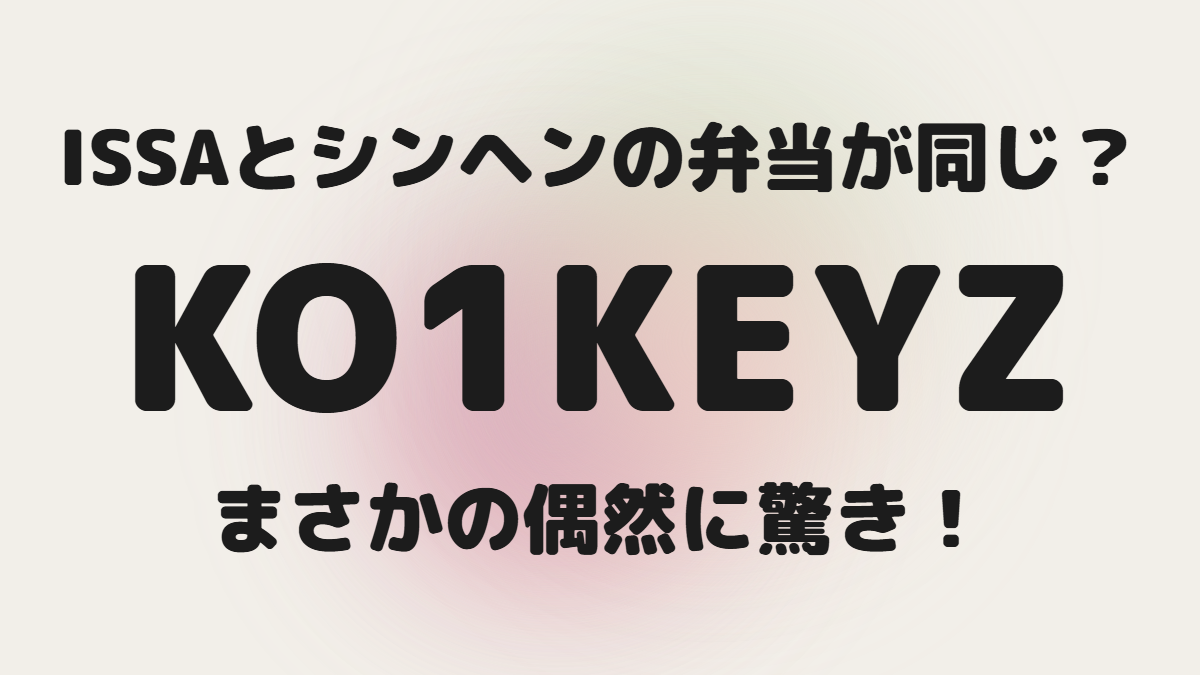
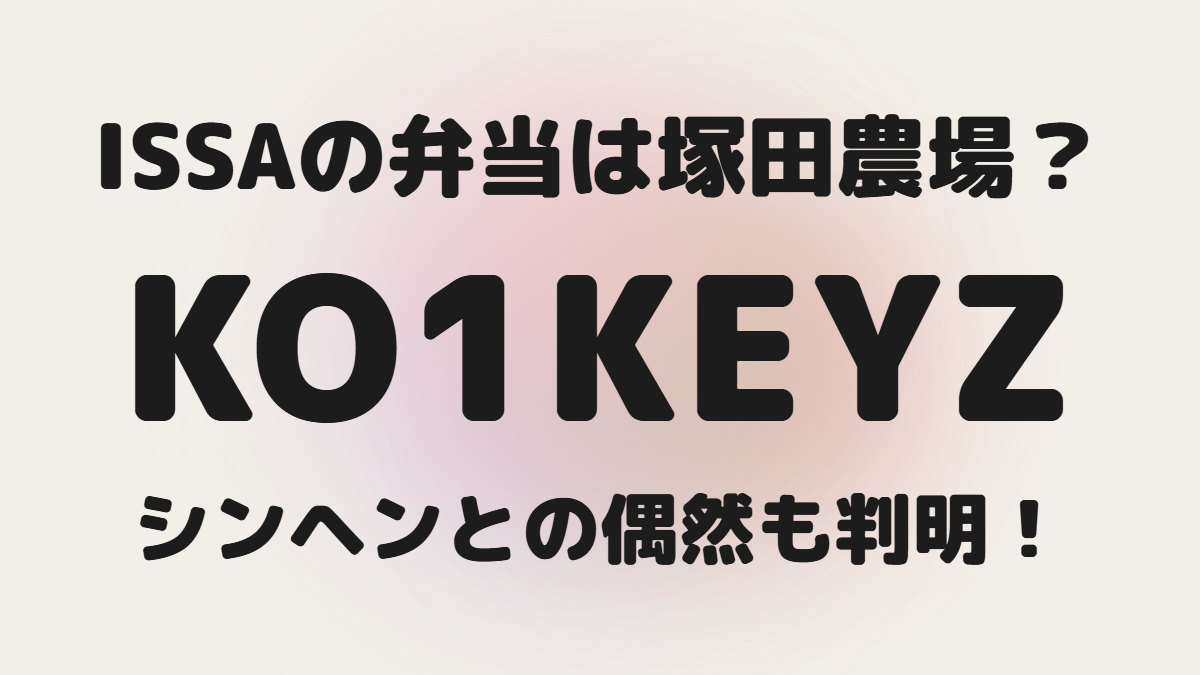
Identify ISSA's bento as Tsukadanojo's chicken nanban bento
Matched the photo against Tsukadanojo Obento Lab's official product
shots (black sesame rice, nikujaga, takana mentaiko, thick omelet,
chicken nanban, tartar sauce all line up). Updated JP/KR/EN drafts
with the product name, price, and purchase links, plus refreshed
eyecatch images.

diff --git a/articles/ko1keyz_issa_shinhaeng_bento_coincidence.html b/articles/ko1keyz_issa_shinhaeng_bento_coincidence.html
@@ -1,7 +1,7 @@
 <!-- wp:paragraph -->
 <p>KO1KEYZ(コイキーズ)のISSA(柳谷伊冴)さんが自身のSNSで配信した弁当の写真が、ファンの間でちょっとした話題になっています。<br>
-気になって追いかけてみたところ、<strong>ほぼ同じ時期にSHINHAENG(オ・シンヘン)さんも同じような弁当を食べていたとの投稿があり、Xでは「まさかの一致」に驚く声が上がっていました</strong>。<br>
-この記事では、ISSAさんが投稿した弁当の中身と、SHINHAENGさんとの偶然の一致、そしてXでのファンの反応をまとめます。</p>
+写真を手がかりに調べてみたところ、<strong>この弁当は塚田農場おべんとラボの看板商品「絶品!塚だまタルタル若鶏のチキン南蛮弁当」(税込990円)とみられ、さらにほぼ同じ時期にSHINHAENG(オ・シンヘン)さんも似た弁当を食べていたとの投稿があり、Xでは「まさかの一致」に驚く声が上がっていました</strong>。<br>
+この記事では、ISSAさんが投稿した弁当の正体と中身、価格や購入先、そしてSHINHAENGさんとの偶然の一致・Xでのファンの反応までまとめます。</p>
 <!-- /wp:paragraph -->
 
 <!-- wp:html -->
@@ -9,7 +9,7 @@
 <p style="font-weight:bold;font-size:1.05em;margin:0;padding:10px 18px;background:#8a8378;color:#fff;">この記事でわかること</p>
 <ul style="margin:0;padding:14px 18px 14px 34px;background:#f7f6f4;">
 <li>ISSAさんが投稿した弁当の写真</li>
-<li>弁当の中身の特徴</li>
+<li>弁当の商品名・価格・購入先</li>
 <li>SHINHAENGさんも同じ弁当を食べていたという話</li>
 <li>Xでのファンの反応</li>
 </ul>
@@ -36,26 +36,57 @@
 
 <!-- wp:html -->
 <figure class="wp-block-image size-large">
-<img src="{{ISSA_BENTO_IMG}}" alt="ISSA(柳谷伊冴)が投稿した黒ごまご飯とチキン南蛮風のから揚げが入った弁当" style="max-width:100%;height:auto;">
+<img src="{{ISSA_BENTO_IMG}}" alt="ISSA(柳谷伊冴)が投稿した塚田農場「塚だまタルタル若鶏のチキン南蛮弁当」の写真" style="max-width:100%;height:auto;">
 <figcaption style="text-align:center;font-size:12px;">出典:<a href="https://x.com/takusankue_/status/2102227424599802034" target="_blank" rel="noopener">https://x.com/takusankue_/status/2102227424599802034</a></figcaption>
 </figure>
 <!-- /wp:html -->
 <!-- UPLOAD: images/ko1keyz_issa_bento.jpg をメディアにアップし、STEP5で実URL(srcset付き)へ差し替える -->
 
 <!-- wp:heading -->
-<h2 class="wp-block-heading">弁当の中身をチェック</h2>
+<h2 class="wp-block-heading">弁当の正体は塚田農場の「塚だまタルタル若鶏のチキン南蛮弁当」</h2>
 <!-- /wp:heading -->
 
 <!-- wp:paragraph -->
 <p>写真を拡大して見てみると、弁当の中身はかなりボリュームのある構成になっていました。<br>
-ご飯は<strong>黒ごまを散らした白ご飯</strong>で容器の半分ほどを占め、その下には<strong>甘酢だれがかかったから揚げが4個</strong>(いわゆるチキン南蛮スタイル)がぎっしり詰まっています。<br>
-おかずのコーナーには、里芋やごぼうらしき具材と枝豆を甘辛く煮たもの、青唐辛子のような緑色の漬物、そしてかぼちゃを思わせるオレンジ色の一切れが並び、タルタルソースらしきクリーム状のソースが別カップで添えられていました。<br>
-彩りも品数も豊富で、育ち盛りのISSAさんらしい食べ応えのある一食という印象です。</p>
+ご飯は<strong>黒ごまを散らした白ご飯</strong>で容器の半分ほどを占め、その下には<strong>甘酢だれがかかった若鶏のチキン南蛮</strong>がぎっしり詰まっています。<br>
+おかずのコーナーには、じゃがいも・にんじん・牛肉を甘辛く煮た肉じゃがに枝豆を添えたもの、高菜明太風の緑色の漬物、手巻きの厚焼き玉子、そして具だくさんの卵タルタルソースが別添えのカップで入っていました。<br>
+この構成・容器の形・タルタルソースの盛り付けを、塚田農場おべんとラボが公式で販売している商品写真と照らし合わせたところ、<strong><span class="swl-marker mark_blue" style="font-size:1.15em;">黒ごまご飯・肉じゃが・高菜明太・厚焼き玉子・チキン南蛮・タルタルソースという5品の配置がすべて一致</span></strong>しました。<br>
+この弁当は、塚田農場おべんとラボの看板商品「絶品!塚だまタルタル若鶏のチキン南蛮弁当」とみて間違いなさそうです。</p>
 <!-- /wp:paragraph -->
 
+<!-- wp:html -->
+<div style="border:1px solid #ccc;border-radius:4px;padding:16px 18px;margin:0 0 16px 0;">
+<p style="font-weight:bold;font-size:1.05em;margin:0 0 10px 0;">「絶品!塚だまタルタル若鶏のチキン南蛮弁当」基本情報</p>
+<table style="border-collapse:collapse;width:100%;">
+<tr><td style="background:#f0f0f0;border:1px solid #ccc;padding:8px 12px;width:35%;">販売元</td><td style="border:1px solid #ccc;padding:8px 12px;">塚田農場おべんとラボ(塚田農場 OBENTO&amp;DELI)</td></tr>
+<tr><td style="background:#f0f0f0;border:1px solid #ccc;padding:8px 12px;">価格</td><td style="border:1px solid #ccc;padding:8px 12px;">990円(税込・店舗により異なる場合あり)</td></tr>
+<tr><td style="background:#f0f0f0;border:1px solid #ccc;padding:8px 12px;">内容</td><td style="border:1px solid #ccc;padding:8px 12px;">若鶏のチキン南蛮・塚だまタルタルソース・肉じゃが・手巻きの厚焼き玉子・高菜明太・ご飯</td></tr>
+<tr><td style="background:#f0f0f0;border:1px solid #ccc;padding:8px 12px;">受賞歴</td><td style="border:1px solid #ccc;padding:8px 12px;">日本ロケ弁大賞 金賞(2024〜2026年 第1〜3回連続受賞)・TV業界賞・からあげグランプリ金賞など</td></tr>
+</table>
+</div>
+<!-- /wp:html -->
+
 <!-- wp:paragraph -->
-<p>この弁当がどこで購入されたものなのか、商品名やお店については本人からの説明がなく、現時点では特定できていません。<br>
-後述するように、Xの反応の中には「新幹線に乗るときに買う」というコメントも見られましたが、これはあくまでファンの個人的な感想であり、実際の購入場所を裏付けるものではない点には留意が必要です。</p>
+<p>特にタルタルソースは、塚田農場オリジナルのプレミアム卵「塚だま」をふんだんに使った特製仕立てで、これが商品名にもなっている一番のこだわりポイントです。<br>
+「日本ロケ弁大賞」で2024年・2025年・2026年と3年連続で金賞を受賞しているだけあって、撮影現場やロケ弁として芸能関係者にもなじみ深い一品なのだそうです。<br>
+ISSAさんがこの弁当を口にしていたのも、こうした現場での差し入れ・ロケ弁として選ばれた可能性が考えられそうです。</p>
+<!-- /wp:paragraph -->
+
+<!-- wp:html -->
+<div style="border:1px solid #ddd9d3;border-radius:4px;margin:0 0 16px 0;overflow:hidden;">
+<p style="font-weight:bold;font-size:1.05em;margin:0;padding:10px 18px;background:#8a8378;color:#fff;">購入先</p>
+<ul style="margin:0;padding:14px 18px 14px 34px;background:#f7f6f4;">
+<li><a href="https://obento.tsukadanojo.jp/shop/menu/item01.html" target="_blank" rel="noopener">塚田農場 OBENTO&amp;DELI 公式サイト(商品ページ)</a> — 990円(税込)</li>
+<li><a href="https://www.gransta.jp/mall/gransta_tokyo/tsukadanojo/" target="_blank" rel="noopener">塚田農場OBENTO&amp;DELI 京葉ストリート店(東京駅グランスタ)</a> — 人気No.1の看板商品として店頭販売</li>
+<li><a href="https://obento.tsukadanojo.jp/shop/store/" target="_blank" rel="noopener">販売店舗一覧(公式)</a> — エキナカ・百貨店の店舗はこちらで確認可能</li>
+<li><a href="https://www.tsukada-plus.jp/shopinfo/" target="_blank" rel="noopener">塚田農場おべんとラボ(宅配弁当)</a> — 東京23区を中心に配達対応(まとまった数量から)</li>
+</ul>
+</div>
+<!-- /wp:html -->
+
+<!-- wp:paragraph -->
+<p>東京駅グランスタの店舗でも看板商品として販売されているとあって、Xの反応にあった「新幹線に乗るときに買う」というコメントも、この弁当なら十分にうなずける話です。<br>
+新幹線改札の近くで気軽に買えるお弁当というのも、人気の理由のひとつなのかもしれません。</p>
 <!-- /wp:paragraph -->
 
 <!-- wp:heading -->
@@ -117,7 +148,7 @@
 <!-- wp:html -->
 <div style="border:1px solid #ddd9d3;border-radius:4px;padding:14px 18px;margin:0 0 16px 0;">
 <p style="margin:0 0 6px 0;"><span style="display:inline-block;min-width:1.1em;padding:0 3px;border:1px solid #8a8378;border-radius:3px;color:#8a8378;font-weight:bold;text-align:center;margin-right:6px;font-size:0.85em;">&#10003;</span>ISSAさんが「ご飯!チキン南蛮おいしっそ」の一言とともに、弁当の写真を配信</p>
-<p style="margin:0 0 6px 0;"><span style="display:inline-block;min-width:1.1em;padding:0 3px;border:1px solid #8a8378;border-radius:3px;color:#8a8378;font-weight:bold;text-align:center;margin-right:6px;font-size:0.85em;">&#10003;</span>弁当の中身は黒ごまご飯・チキン南蛮風のから揚げ4個・タルタルソース・煮物・漬物など。商品名や購入場所は不明</p>
+<p style="margin:0 0 6px 0;"><span style="display:inline-block;min-width:1.1em;padding:0 3px;border:1px solid #8a8378;border-radius:3px;color:#8a8378;font-weight:bold;text-align:center;margin-right:6px;font-size:0.85em;">&#10003;</span>弁当の正体は塚田農場おべんとラボの「絶品!塚だまタルタル若鶏のチキン南蛮弁当」(990円)とみられる</p>
 <p style="margin:0 0 6px 0;"><span style="display:inline-block;min-width:1.1em;padding:0 3px;border:1px solid #8a8378;border-radius:3px;color:#8a8378;font-weight:bold;text-align:center;margin-right:6px;font-size:0.85em;">&#10003;</span>ほぼ同じ時期にSHINHAENGさんも「ちゃんとお弁当を食べた」と投稿し、Xでは「まさかの一致」と話題に</p>
 <p style="margin:0;"><span style="display:inline-block;min-width:1.1em;padding:0 3px;border:1px solid #8a8378;border-radius:3px;color:#8a8378;font-weight:bold;text-align:center;margin-right:6px;font-size:0.85em;">&#10003;</span>SHINHAENG側の投稿に写真はなく、完全に同一の弁当だったかまでは確認できていない</p>
 </div>

diff --git a/articles/ko1keyz_issa_shinhaeng_bento_coincidence_kr.html b/articles/ko1keyz_issa_shinhaeng_bento_coincidence_kr.html
@@ -1,7 +1,7 @@
 <!-- wp:paragraph -->
 <p>KO1KEYZ(코이키즈)의 ISSA(야나기야 잇사)가 자신의 SNS로 전한 도시락 사진이 팬들 사이에서 작은 화제가 되고 있습니다.<br>
-궁금해서 살펴보니, <strong>거의 같은 시기에 SHINHAENG(오신행)도 비슷한 도시락을 먹었다는 게시글이 있어, X에서는 "설마 하는 우연"이라며 놀라는 목소리가 나왔습니다</strong>.<br>
-이 글에서는 ISSA가 올린 도시락의 내용물과 SHINHAENG과의 우연한 일치, 그리고 X에서의 팬 반응을 정리했습니다.</p>
+사진을 단서로 살펴본 결과, <strong>이 도시락은 츠카다노조 오벤토랩의 대표 메뉴 "절품! 츠카다마 타르타르 영계 치킨난반 도시락"(세금 포함 990엔)으로 보이며, 거의 같은 시기에 SHINHAENG(오신행)도 비슷한 도시락을 먹었다는 게시글이 있어 X에서는 "설마 하는 우연"이라며 놀라는 목소리가 나왔습니다</strong>.<br>
+이 글에서는 ISSA가 올린 도시락의 정체와 내용물, 가격과 구입처, 그리고 SHINHAENG과의 우연한 일치와 X에서의 팬 반응까지 정리했습니다.</p>
 <!-- /wp:paragraph -->
 
 <!-- wp:html -->
@@ -9,7 +9,7 @@
 <p style="font-weight:bold;font-size:1.05em;margin:0;padding:10px 18px;background:#8a8378;color:#fff;">이 글에서 알 수 있는 것</p>
 <ul style="margin:0;padding:14px 18px 14px 34px;background:#f7f6f4;">
 <li>ISSA가 올린 도시락 사진</li>
-<li>도시락 내용물의 특징</li>
+<li>도시락의 상품명・가격・구입처</li>
 <li>SHINHAENG도 같은 도시락을 먹었다는 이야기</li>
 <li>X에서의 팬 반응</li>
 </ul>
@@ -36,26 +36,57 @@
 
 <!-- wp:html -->
 <figure class="wp-block-image size-large">
-<img src="{{ISSA_BENTO_IMG}}" alt="ISSA(야나기야 잇사)가 올린 검은깨 밥과 치킨난반풍 튀김이 담긴 도시락" style="max-width:100%;height:auto;">
+<img src="{{ISSA_BENTO_IMG}}" alt="ISSA(야나기야 잇사)가 올린 츠카다노조 '츠카다마 타르타르 영계 치킨난반 도시락' 사진" style="max-width:100%;height:auto;">
 <figcaption style="text-align:center;font-size:12px;">출처:<a href="https://x.com/takusankue_/status/2102227424599802034" target="_blank" rel="noopener">https://x.com/takusankue_/status/2102227424599802034</a></figcaption>
 </figure>
 <!-- /wp:html -->
 <!-- UPLOAD: images/ko1keyz_issa_bento.jpg 를 미디어에 업로드하고 STEP5에서 실제 URL로 교체 -->
 
 <!-- wp:heading -->
-<h2 class="wp-block-heading">도시락 내용물 체크</h2>
+<h2 class="wp-block-heading">도시락의 정체는 츠카다노조 "츠카다마 타르타르 영계 치킨난반 도시락"</h2>
 <!-- /wp:heading -->
 
 <!-- wp:paragraph -->
 <p>사진을 확대해서 살펴보면, 도시락 내용물은 상당히 볼륨감 있는 구성이었습니다.<br>
-밥은 <strong>검은깨를 뿌린 흰쌀밥</strong>으로 용기의 절반가량을 차지했고, 그 아래로는 <strong>달콤짭짤한 소스를 두른 튀김 4개</strong>(이른바 치킨난반 스타일)가 가득 담겨 있었습니다.<br>
-반찬 칸에는 토란이나 우엉으로 보이는 재료와 풋콩을 달콤짭짤하게 조린 것, 초록색 절임, 그리고 단호박을 연상시키는 주황색 조각이 놓여 있었고, 타르타르소스로 보이는 크림 소스가 별도 컵에 담겨 있었습니다.<br>
-색감도 가짓수도 풍부해, 한창 성장기인 ISSA다운 든든한 한 끼라는 인상이었습니다.</p>
+밥은 <strong>검은깨를 뿌린 흰쌀밥</strong>으로 용기의 절반가량을 차지했고, 그 아래로는 <strong>달콤짭짤한 소스를 두른 영계 치킨난반</strong>이 가득 담겨 있었습니다.<br>
+반찬 칸에는 감자・당근・소고기를 달콤짭짤하게 조린 니쿠자가에 풋콩을 곁들인 것, 다카나멘타이풍의 초록색 절임, 손으로 말아 만든 두꺼운 계란말이, 그리고 계란이 듬뿍 들어간 타르타르소스가 별도 컵에 담겨 있었습니다.<br>
+이 구성・용기 모양・타르타르소스 담음새를 츠카다노조 오벤토랩이 공식으로 판매 중인 상품 사진과 대조해 본 결과, <strong><span class="swl-marker mark_blue" style="font-size:1.15em;">검은깨 밥・니쿠자가・다카나멘타이・두꺼운 계란말이・치킨난반・타르타르소스라는 5가지 구성이 모두 일치</span></strong>했습니다.<br>
+이 도시락은 츠카다노조 오벤토랩의 대표 메뉴 "절품! 츠카다마 타르타르 영계 치킨난반 도시락"으로 봐도 틀림없어 보입니다.</p>
 <!-- /wp:paragraph -->
 
+<!-- wp:html -->
+<div style="border:1px solid #ccc;border-radius:4px;padding:16px 18px;margin:0 0 16px 0;">
+<p style="font-weight:bold;font-size:1.05em;margin:0 0 10px 0;">"절품! 츠카다마 타르타르 영계 치킨난반 도시락" 기본 정보</p>
+<table style="border-collapse:collapse;width:100%;">
+<tr><td style="background:#f0f0f0;border:1px solid #ccc;padding:8px 12px;width:35%;">판매처</td><td style="border:1px solid #ccc;padding:8px 12px;">츠카다노조 오벤토랩(츠카다노조 OBENTO&amp;DELI)</td></tr>
+<tr><td style="background:#f0f0f0;border:1px solid #ccc;padding:8px 12px;">가격</td><td style="border:1px solid #ccc;padding:8px 12px;">990엔(세금 포함, 점포에 따라 다를 수 있음)</td></tr>
+<tr><td style="background:#f0f0f0;border:1px solid #ccc;padding:8px 12px;">구성</td><td style="border:1px solid #ccc;padding:8px 12px;">영계 치킨난반・츠카다마 타르타르소스・니쿠자가・손말이 계란말이・다카나멘타이・밥</td></tr>
+<tr><td style="background:#f0f0f0;border:1px solid #ccc;padding:8px 12px;">수상 이력</td><td style="border:1px solid #ccc;padding:8px 12px;">일본 로케벤(촬영 현장용 도시락) 대상 금상(2024~2026년 제1~3회 연속 수상)・TV업계상・가라아게 그랑프리 금상 등</td></tr>
+</table>
+</div>
+<!-- /wp:html -->
+
 <!-- wp:paragraph -->
-<p>이 도시락을 어디서 구입했는지, 상품명이나 판매처는 본인의 설명이 없어 현재로서는 특정할 수 없습니다.<br>
-뒤에서 소개하듯 X 반응 중에는 "신칸센 탈 때 사 먹는다"는 코멘트도 있었지만, 이는 어디까지나 팬 개인의 감상일 뿐 실제 구입처를 뒷받침하는 것은 아니라는 점에 유의가 필요합니다.</p>
+<p>특히 타르타르소스는 츠카다노조 오리지널 프리미엄 달걀 "츠카다마"를 듬뿍 사용한 특제 소스로, 이것이 상품명에도 들어간 가장 큰 포인트입니다.<br>
+"일본 로케벤 대상"에서 2024년・2025년・2026년 3년 연속 금상을 수상했을 만큼, 촬영 현장이나 로케 도시락으로 연예 관계자에게도 친숙한 메뉴라고 합니다.<br>
+ISSA가 이 도시락을 먹고 있었던 것도, 이런 현장에서의 차입・로케 도시락으로 선택되었을 가능성이 있어 보입니다.</p>
+<!-- /wp:paragraph -->
+
+<!-- wp:html -->
+<div style="border:1px solid #ddd9d3;border-radius:4px;margin:0 0 16px 0;overflow:hidden;">
+<p style="font-weight:bold;font-size:1.05em;margin:0;padding:10px 18px;background:#8a8378;color:#fff;">구입처</p>
+<ul style="margin:0;padding:14px 18px 14px 34px;background:#f7f6f4;">
+<li><a href="https://obento.tsukadanojo.jp/shop/menu/item01.html" target="_blank" rel="noopener">츠카다노조 OBENTO&amp;DELI 공식 사이트(상품 페이지)</a> — 990엔(세금 포함)</li>
+<li><a href="https://www.gransta.jp/mall/gransta_tokyo/tsukadanojo/" target="_blank" rel="noopener">츠카다노조OBENTO&amp;DELI 케이요 스트리트점(도쿄역 그란스타)</a> — 인기 No.1 대표 메뉴로 매장 판매 중</li>
+<li><a href="https://obento.tsukadanojo.jp/shop/store/" target="_blank" rel="noopener">판매 매장 목록(공식)</a> — 역 구내・백화점 매장은 이곳에서 확인 가능</li>
+<li><a href="https://www.tsukada-plus.jp/shopinfo/" target="_blank" rel="noopener">츠카다노조 오벤토랩(배달 도시락)</a> — 도쿄 23구를 중심으로 배달 대응(일정 수량 이상부터)</li>
+</ul>
+</div>
+<!-- /wp:html -->
+
+<!-- wp:paragraph -->
+<p>도쿄역 그란스타 매장에서도 대표 메뉴로 판매되고 있는 만큼, X 반응에 있었던 "신칸센 탈 때 사 먹는다"는 코멘트도 이 도시락이라면 충분히 납득이 갑니다.<br>
+신칸센 개찰구 근처에서 부담 없이 살 수 있는 도시락이라는 점도 인기의 이유 중 하나일지도 모릅니다.</p>
 <!-- /wp:paragraph -->
 
 <!-- wp:heading -->
@@ -115,7 +146,7 @@
 <!-- wp:html -->
 <div style="border:1px solid #ddd9d3;border-radius:4px;padding:14px 18px;margin:0 0 16px 0;">
 <p style="margin:0 0 6px 0;"><span style="display:inline-block;min-width:1.1em;padding:0 3px;border:1px solid #8a8378;border-radius:3px;color:#8a8378;font-weight:bold;text-align:center;margin-right:6px;font-size:0.85em;">&#10003;</span>ISSA가 "밥! 치킨난반 맛있어 보인다"는 한마디와 함께 도시락 사진을 전함</p>
-<p style="margin:0 0 6px 0;"><span style="display:inline-block;min-width:1.1em;padding:0 3px;border:1px solid #8a8378;border-radius:3px;color:#8a8378;font-weight:bold;text-align:center;margin-right:6px;font-size:0.85em;">&#10003;</span>도시락 내용물은 검은깨 밥・치킨난반풍 튀김 4개・타르타르소스・조림・절임 등. 상품명과 구입처는 불명</p>
+<p style="margin:0 0 6px 0;"><span style="display:inline-block;min-width:1.1em;padding:0 3px;border:1px solid #8a8378;border-radius:3px;color:#8a8378;font-weight:bold;text-align:center;margin-right:6px;font-size:0.85em;">&#10003;</span>도시락의 정체는 츠카다노조 오벤토랩의 "절품! 츠카다마 타르타르 영계 치킨난반 도시락"(990엔)으로 보임</p>
 <p style="margin:0 0 6px 0;"><span style="display:inline-block;min-width:1.1em;padding:0 3px;border:1px solid #8a8378;border-radius:3px;color:#8a8378;font-weight:bold;text-align:center;margin-right:6px;font-size:0.85em;">&#10003;</span>거의 같은 시기에 SHINHAENG도 "제대로 도시락을 먹었다"고 게시해 X에서는 "설마 하는 우연"으로 화제</p>
 <p style="margin:0;"><span style="display:inline-block;min-width:1.1em;padding:0 3px;border:1px solid #8a8378;border-radius:3px;color:#8a8378;font-weight:bold;text-align:center;margin-right:6px;font-size:0.85em;">&#10003;</span>SHINHAENG 쪽 게시물에는 사진이 없어 완전히 동일한 도시락이었는지까지는 확인되지 않음</p>
 </div>

diff --git a/articles/ko1keyz_issa_shinhaeng_bento_coincidence_en.html b/articles/ko1keyz_issa_shinhaeng_bento_coincidence_en.html
@@ -1,7 +1,7 @@
 <!-- wp:paragraph -->
 <p>ISSA (Yanagiya Issa) of KO1KEYZ shared a photo of his lunch box on his own SNS, and it quickly became a small talking point among fans.<br>
-Curious, we looked into it further and found that <strong>SHINHAENG (Oh Sin-hyeon) posted around the same time that he, too, had properly eaten a bento, leading fans on X to react with surprise at the coincidence</strong>.<br>
-This article looks at what was inside ISSA's bento, the coincidental overlap with SHINHAENG, and how fans reacted on X.</p>
+Using the photo as a clue, we tracked it down: <strong>the bento appears to be Tsukada Farm's (Tsukadanojo) signature item, the "Tsukadama Tartar Young Chicken Nanban Bento" (990 yen tax included), and around the same time SHINHAENG (Oh Sin-hyeon) posted that he, too, had eaten a similar bento, leading fans on X to react with surprise at the coincidence</strong>.<br>
+This article looks at what the bento actually is, its price and where to buy it, the coincidental overlap with SHINHAENG, and how fans reacted on X.</p>
 <!-- /wp:paragraph -->
 
 <!-- wp:html -->
@@ -9,7 +9,7 @@ This article looks at what was inside ISSA's bento, the coincidental overlap wit
 <p style="font-weight:bold;font-size:1.05em;margin:0;padding:10px 18px;background:#8a8378;color:#fff;">What this article covers</p>
 <ul style="margin:0;padding:14px 18px 14px 34px;background:#f7f6f4;">
 <li>The bento photo ISSA shared</li>
-<li>What was inside the bento</li>
+<li>The bento's product name, price, and where to buy it</li>
 <li>The claim that SHINHAENG ate a similar bento</li>
 <li>How fans reacted on X</li>
 </ul>
@@ -36,26 +36,57 @@ An X user who saw the post shared a screenshot of it on X, so many fans likely c
 
 <!-- wp:html -->
 <figure class="wp-block-image size-large">
-<img src="{{ISSA_BENTO_IMG}}" alt="A bento posted by ISSA, with black sesame rice and chicken nanban-style fried chicken" style="max-width:100%;height:auto;">
+<img src="{{ISSA_BENTO_IMG}}" alt="A bento posted by ISSA, identified as Tsukadanojo's Tsukadama Tartar Young Chicken Nanban Bento" style="max-width:100%;height:auto;">
 <figcaption style="text-align:center;font-size:12px;">Source:<a href="https://x.com/takusankue_/status/2102227424599802034" target="_blank" rel="noopener">https://x.com/takusankue_/status/2102227424599802034</a></figcaption>
 </figure>
 <!-- /wp:html -->
 <!-- UPLOAD: images/ko1keyz_issa_bento.jpg to be uploaded to media and swapped for the real URL in STEP5 -->
 
 <!-- wp:heading -->
-<h2 class="wp-block-heading">What was inside the bento?</h2>
+<h2 class="wp-block-heading">The bento's identity: Tsukadanojo's "Tsukadama Tartar Young Chicken Nanban Bento"</h2>
 <!-- /wp:heading -->
 
 <!-- wp:paragraph -->
 <p>Zooming in on the photo, the bento turned out to be quite a hearty spread.<br>
-The rice was <strong>white rice topped with black sesame seeds</strong>, taking up about half the container, with <strong>four pieces of fried chicken coated in a sweet-tangy glaze</strong> (in a chicken nanban style) packed in below.<br>
-The side dishes included what looked like taro or burdock root simmered with edamame in a sweet-savory sauce, a green pickled vegetable, and an orange slice resembling pumpkin, along with a separate cup of what appeared to be tartar sauce.<br>
-With its rich colors and variety, it gave the impression of a hearty, satisfying meal fitting for ISSA, who is still in his growth years.</p>
+The rice was <strong>white rice topped with black sesame seeds</strong>, taking up about half the container, with <strong>sweet-tangy glazed young chicken nanban</strong> packed in below.<br>
+The side dishes included nikujaga (potato, carrot, and beef simmered in a sweet-savory sauce) with edamame, a green pickled vegetable resembling takana mentaiko, a hand-rolled thick omelet, and a separate cup of egg-rich tartar sauce.<br>
+Comparing this layout, the container shape, and the way the tartar sauce was presented against official product photos from Tsukada Farm's (Tsukadanojo) bento shop, <strong><span class="swl-marker mark_blue" style="font-size:1.15em;">all five elements — the black sesame rice, nikujaga, takana mentaiko, thick omelet, chicken nanban, and tartar sauce — matched exactly</span></strong>.<br>
+This bento appears, without much doubt, to be Tsukadanojo's signature item, the "Tsukadama Tartar Young Chicken Nanban Bento."</p>
 <!-- /wp:paragraph -->
 
+<!-- wp:html -->
+<div style="border:1px solid #ccc;border-radius:4px;padding:16px 18px;margin:0 0 16px 0;">
+<p style="font-weight:bold;font-size:1.05em;margin:0 0 10px 0;">"Tsukadama Tartar Young Chicken Nanban Bento" basics</p>
+<table style="border-collapse:collapse;width:100%;">
+<tr><td style="background:#f0f0f0;border:1px solid #ccc;padding:8px 12px;width:35%;">Sold by</td><td style="border:1px solid #ccc;padding:8px 12px;">Tsukadanojo Obento Lab (Tsukadanojo OBENTO&amp;DELI)</td></tr>
+<tr><td style="background:#f0f0f0;border:1px solid #ccc;padding:8px 12px;">Price</td><td style="border:1px solid #ccc;padding:8px 12px;">990 yen (tax included; may vary by location)</td></tr>
+<tr><td style="background:#f0f0f0;border:1px solid #ccc;padding:8px 12px;">Contents</td><td style="border:1px solid #ccc;padding:8px 12px;">Chicken nanban, Tsukadama tartar sauce, nikujaga, hand-rolled thick omelet, takana mentaiko, rice</td></tr>
+<tr><td style="background:#f0f0f0;border:1px solid #ccc;padding:8px 12px;">Awards</td><td style="border:1px solid #ccc;padding:8px 12px;">Gold Prize at the Japan Location Bento Awards (three consecutive years, 2024-2026), a TV Industry Award, and a Gold Prize at the Karaage Grand Prix, among others</td></tr>
+</table>
+</div>
+<!-- /wp:html -->
+
 <!-- wp:paragraph -->
-<p>Neither the product name nor where the bento was purchased has been explained by ISSA himself, so this remains unconfirmed at this time.<br>
-As introduced below, one reaction on X mentioned buying "this" when riding the shinkansen, but that is simply one fan's personal impression and does not confirm where the bento actually came from.</p>
+<p>The tartar sauce in particular is a signature touch made generously with Tsukadanojo's own premium "Tsukadama" eggs, which is where the product's name comes from.<br>
+Having won gold at the Japan Location Bento Awards three years running (2024, 2025, and 2026), it's reportedly a bento well known among entertainment industry staff as catering for film and TV shoots.<br>
+That raises the possibility that ISSA, too, was eating this bento as catering or a treat brought to a work location.</p>
+<!-- /wp:paragraph -->
+
+<!-- wp:html -->
+<div style="border:1px solid #ddd9d3;border-radius:4px;margin:0 0 16px 0;overflow:hidden;">
+<p style="font-weight:bold;font-size:1.05em;margin:0;padding:10px 18px;background:#8a8378;color:#fff;">Where to buy it</p>
+<ul style="margin:0;padding:14px 18px 14px 34px;background:#f7f6f4;">
+<li><a href="https://obento.tsukadanojo.jp/shop/menu/item01.html" target="_blank" rel="noopener">Tsukadanojo OBENTO&amp;DELI official site (product page)</a> — 990 yen (tax included)</li>
+<li><a href="https://www.gransta.jp/mall/gransta_tokyo/tsukadanojo/" target="_blank" rel="noopener">Tsukadanojo OBENTO&amp;DELI Keiyo Street store (Tokyo Station, GranSta)</a> — sold in-store as the shop's No. 1 signature item</li>
+<li><a href="https://obento.tsukadanojo.jp/shop/store/" target="_blank" rel="noopener">Official store list</a> — check here for in-station and department store locations</li>
+<li><a href="https://www.tsukada-plus.jp/shopinfo/" target="_blank" rel="noopener">Tsukadanojo Obento Lab (delivery)</a> — delivers mainly within Tokyo's 23 wards for bulk orders</li>
+</ul>
+</div>
+<!-- /wp:html -->
+
+<!-- wp:paragraph -->
+<p>Since it's sold as a signature item at the GranSta store inside Tokyo Station, the X reaction mentioning buying "this" when riding the shinkansen makes a lot of sense for this particular bento.<br>
+Being easy to pick up right near the shinkansen ticket gates may well be part of its appeal.</p>
 <!-- /wp:paragraph -->
 
 <!-- wp:heading -->
@@ -115,7 +146,7 @@ That two members with such different backgrounds happened to be eating similar l
 <!-- wp:html -->
 <div style="border:1px solid #ddd9d3;border-radius:4px;padding:14px 18px;margin:0 0 16px 0;">
 <p style="margin:0 0 6px 0;"><span style="display:inline-block;min-width:1.1em;padding:0 3px;border:1px solid #8a8378;border-radius:3px;color:#8a8378;font-weight:bold;text-align:center;margin-right:6px;font-size:0.85em;">&#10003;</span>ISSA shared a bento photo with the caption "Rice! This chicken nanban looks tasty"</p>
-<p style="margin:0 0 6px 0;"><span style="display:inline-block;min-width:1.1em;padding:0 3px;border:1px solid #8a8378;border-radius:3px;color:#8a8378;font-weight:bold;text-align:center;margin-right:6px;font-size:0.85em;">&#10003;</span>The bento contained black sesame rice, four pieces of chicken nanban-style fried chicken, tartar sauce, simmered vegetables, and pickles; the product name and where it was bought remain unconfirmed</p>
+<p style="margin:0 0 6px 0;"><span style="display:inline-block;min-width:1.1em;padding:0 3px;border:1px solid #8a8378;border-radius:3px;color:#8a8378;font-weight:bold;text-align:center;margin-right:6px;font-size:0.85em;">&#10003;</span>The bento appears to be Tsukadanojo's "Tsukadama Tartar Young Chicken Nanban Bento" (990 yen)</p>
 <p style="margin:0 0 6px 0;"><span style="display:inline-block;min-width:1.1em;padding:0 3px;border:1px solid #8a8378;border-radius:3px;color:#8a8378;font-weight:bold;text-align:center;margin-right:6px;font-size:0.85em;">&#10003;</span>Around the same time, SHINHAENG also posted that he had "properly eaten a bento," sparking talk on X about the coincidence</p>
 <p style="margin:0;"><span style="display:inline-block;min-width:1.1em;padding:0 3px;border:1px solid #8a8378;border-radius:3px;color:#8a8378;font-weight:bold;text-align:center;margin-right:6px;font-size:0.85em;">&#10003;</span>SHINHAENG's post had no photo attached, so it can't be confirmed whether the bentos were completely identical</p>
 </div>

diff --git a/images/ko1keyz_issa_shinhaeng_bento_eyecatch.html b/images/ko1keyz_issa_shinhaeng_bento_eyecatch.html
@@ -30,10 +30,10 @@ body { width: 1200px; height: 675px; overflow: hidden; }
 </head>
 <body>
 <div class="canvas">
-  <div class="smoke" style="width:424px;height:424px;left:337px;top:206px;background:radial-gradient(circle,rgba(240,150,160,0.95) 0%,transparent 66%);"></div><div class="smoke" style="width:465px;height:465px;left:335px;top:163px;background:radial-gradient(circle,rgba(246,178,130,0.85) 0%,transparent 66%);"></div><div class="smoke" style="width:533px;height:533px;left:291px;top:128px;background:radial-gradient(circle,rgba(196,165,220,0.80) 0%,transparent 66%);"></div><div class="smoke" style="width:567px;height:567px;left:423px;top:-34px;background:radial-gradient(circle,rgba(186,214,170,0.70) 0%,transparent 66%);"></div><div class="smoke" style="width:504px;height:504px;left:464px;top:90px;background:radial-gradient(circle,rgba(250,205,205,0.85) 0%,transparent 66%);"></div>
-  <div class="fit top" data-max="90">ISSAとシンヘンの弁当が同じ？</div>
+  <div class="smoke" style="width:448px;height:448px;left:541px;top:144px;background:radial-gradient(circle,rgba(240,150,160,0.95) 0%,transparent 66%);"></div><div class="smoke" style="width:452px;height:452px;left:430px;top:109px;background:radial-gradient(circle,rgba(246,178,130,0.85) 0%,transparent 66%);"></div><div class="smoke" style="width:617px;height:617px;left:253px;top:51px;background:radial-gradient(circle,rgba(196,165,220,0.80) 0%,transparent 66%);"></div><div class="smoke" style="width:473px;height:473px;left:451px;top:124px;background:radial-gradient(circle,rgba(186,214,170,0.70) 0%,transparent 66%);"></div><div class="smoke" style="width:544px;height:544px;left:291px;top:-6px;background:radial-gradient(circle,rgba(250,205,205,0.85) 0%,transparent 66%);"></div>
+  <div class="fit top" data-max="90">ISSAの弁当は塚田農場？</div>
   <div class="fit main" data-max="200">KO1KEYZ</div>
-  <div class="fit bottom" data-max="78">まさかの偶然に驚き！</div>
+  <div class="fit bottom" data-max="78">シンヘンとの偶然も判明！</div>
 </div>
 <script>
 // 各行を横幅いっぱい(1090px)まで拡大する(Canvaテンプレの「文字が画面いっぱい」の質感を再現)

diff --git a/images/ko1keyz_issa_shinhaeng_bento_eyecatch_kr.html b/images/ko1keyz_issa_shinhaeng_bento_eyecatch_kr.html
@@ -30,10 +30,10 @@ body { width: 1200px; height: 675px; overflow: hidden; }
 </head>
 <body>
 <div class="canvas">
-  <div class="smoke" style="width:597px;height:597px;left:413px;top:50px;background:radial-gradient(circle,rgba(240,150,160,0.95) 0%,transparent 66%);"></div><div class="smoke" style="width:515px;height:515px;left:312px;top:-27px;background:radial-gradient(circle,rgba(246,178,130,0.85) 0%,transparent 66%);"></div><div class="smoke" style="width:588px;height:588px;left:364px;top:27px;background:radial-gradient(circle,rgba(196,165,220,0.80) 0%,transparent 66%);"></div><div class="smoke" style="width:632px;height:632px;left:175px;top:99px;background:radial-gradient(circle,rgba(186,214,170,0.70) 0%,transparent 66%);"></div><div class="smoke" style="width:582px;height:582px;left:178px;top:41px;background:radial-gradient(circle,rgba(250,205,205,0.85) 0%,transparent 66%);"></div>
-  <div class="fit top" data-max="90">ISSA와 신행의 도시락이 같다고?</div>
+  <div class="smoke" style="width:528px;height:528px;left:332px;top:112px;background:radial-gradient(circle,rgba(240,150,160,0.95) 0%,transparent 66%);"></div><div class="smoke" style="width:553px;height:553px;left:262px;top:28px;background:radial-gradient(circle,rgba(246,178,130,0.85) 0%,transparent 66%);"></div><div class="smoke" style="width:577px;height:577px;left:341px;top:1px;background:radial-gradient(circle,rgba(196,165,220,0.80) 0%,transparent 66%);"></div><div class="smoke" style="width:478px;height:478px;left:254px;top:94px;background:radial-gradient(circle,rgba(186,214,170,0.70) 0%,transparent 66%);"></div><div class="smoke" style="width:464px;height:464px;left:405px;top:1px;background:radial-gradient(circle,rgba(250,205,205,0.85) 0%,transparent 66%);"></div>
+  <div class="fit top" data-max="90">ISSA의 도시락은 츠카다노조?</div>
   <div class="fit main" data-max="200">KO1KEYZ</div>
-  <div class="fit bottom" data-max="78">뜻밖의 우연에 깜짝!</div>
+  <div class="fit bottom" data-max="78">신행과의 우연도 밝혀져!</div>
 </div>
 <script>
 // 各行を横幅いっぱい(1090px)まで拡大する(Canvaテンプレの「文字が画面いっぱい」の質感を再現)
